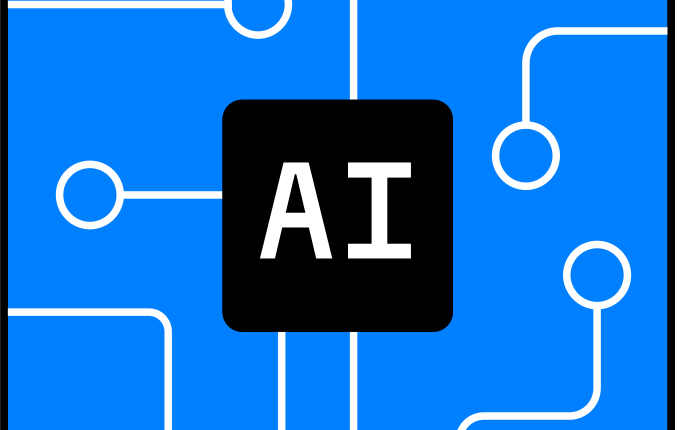
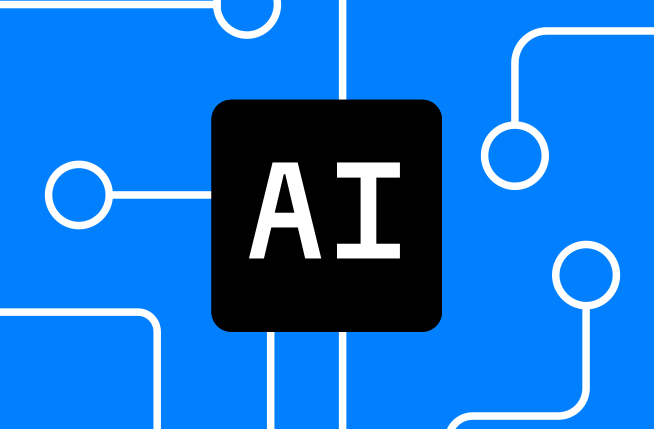
Fix

diff --git a/_pages/index.md b/_pages/index.md
@@ -71,9 +71,9 @@ permalink: /
   <table style="width: 100%; border-collapse: collapse; table-layout: fixed;">
     <tbody>
       <tr>
-        <td style="width: 25%; vertical-align: middle; text-align: center;">
+        <td style="width: 25%; height: 200px; vertical-align: middle; text-align: center;">
             <img src="/assets/dc_engine/img/ml_ai.png" alt="DC Engine" 
-                 style="max-width: 100%; max-height: 150px; height: auto; display: inline-block;" />
+                 style="max-width: 100%; height: auto; display: inline-block;" />
         </td>
         <td style="width: 75%; vertical-align: middle; padding-right: 25px; text-align: justify; line-height: 1.5;">
             <p>We process traffic and extract the maximum possible number of fields/properties/metrics, after which we generate a granular dataset for training your AI systems. The set of produced information is constantly updated with the release of new product versions, which expand the list of supported protocols, fields, and metadata.</p>